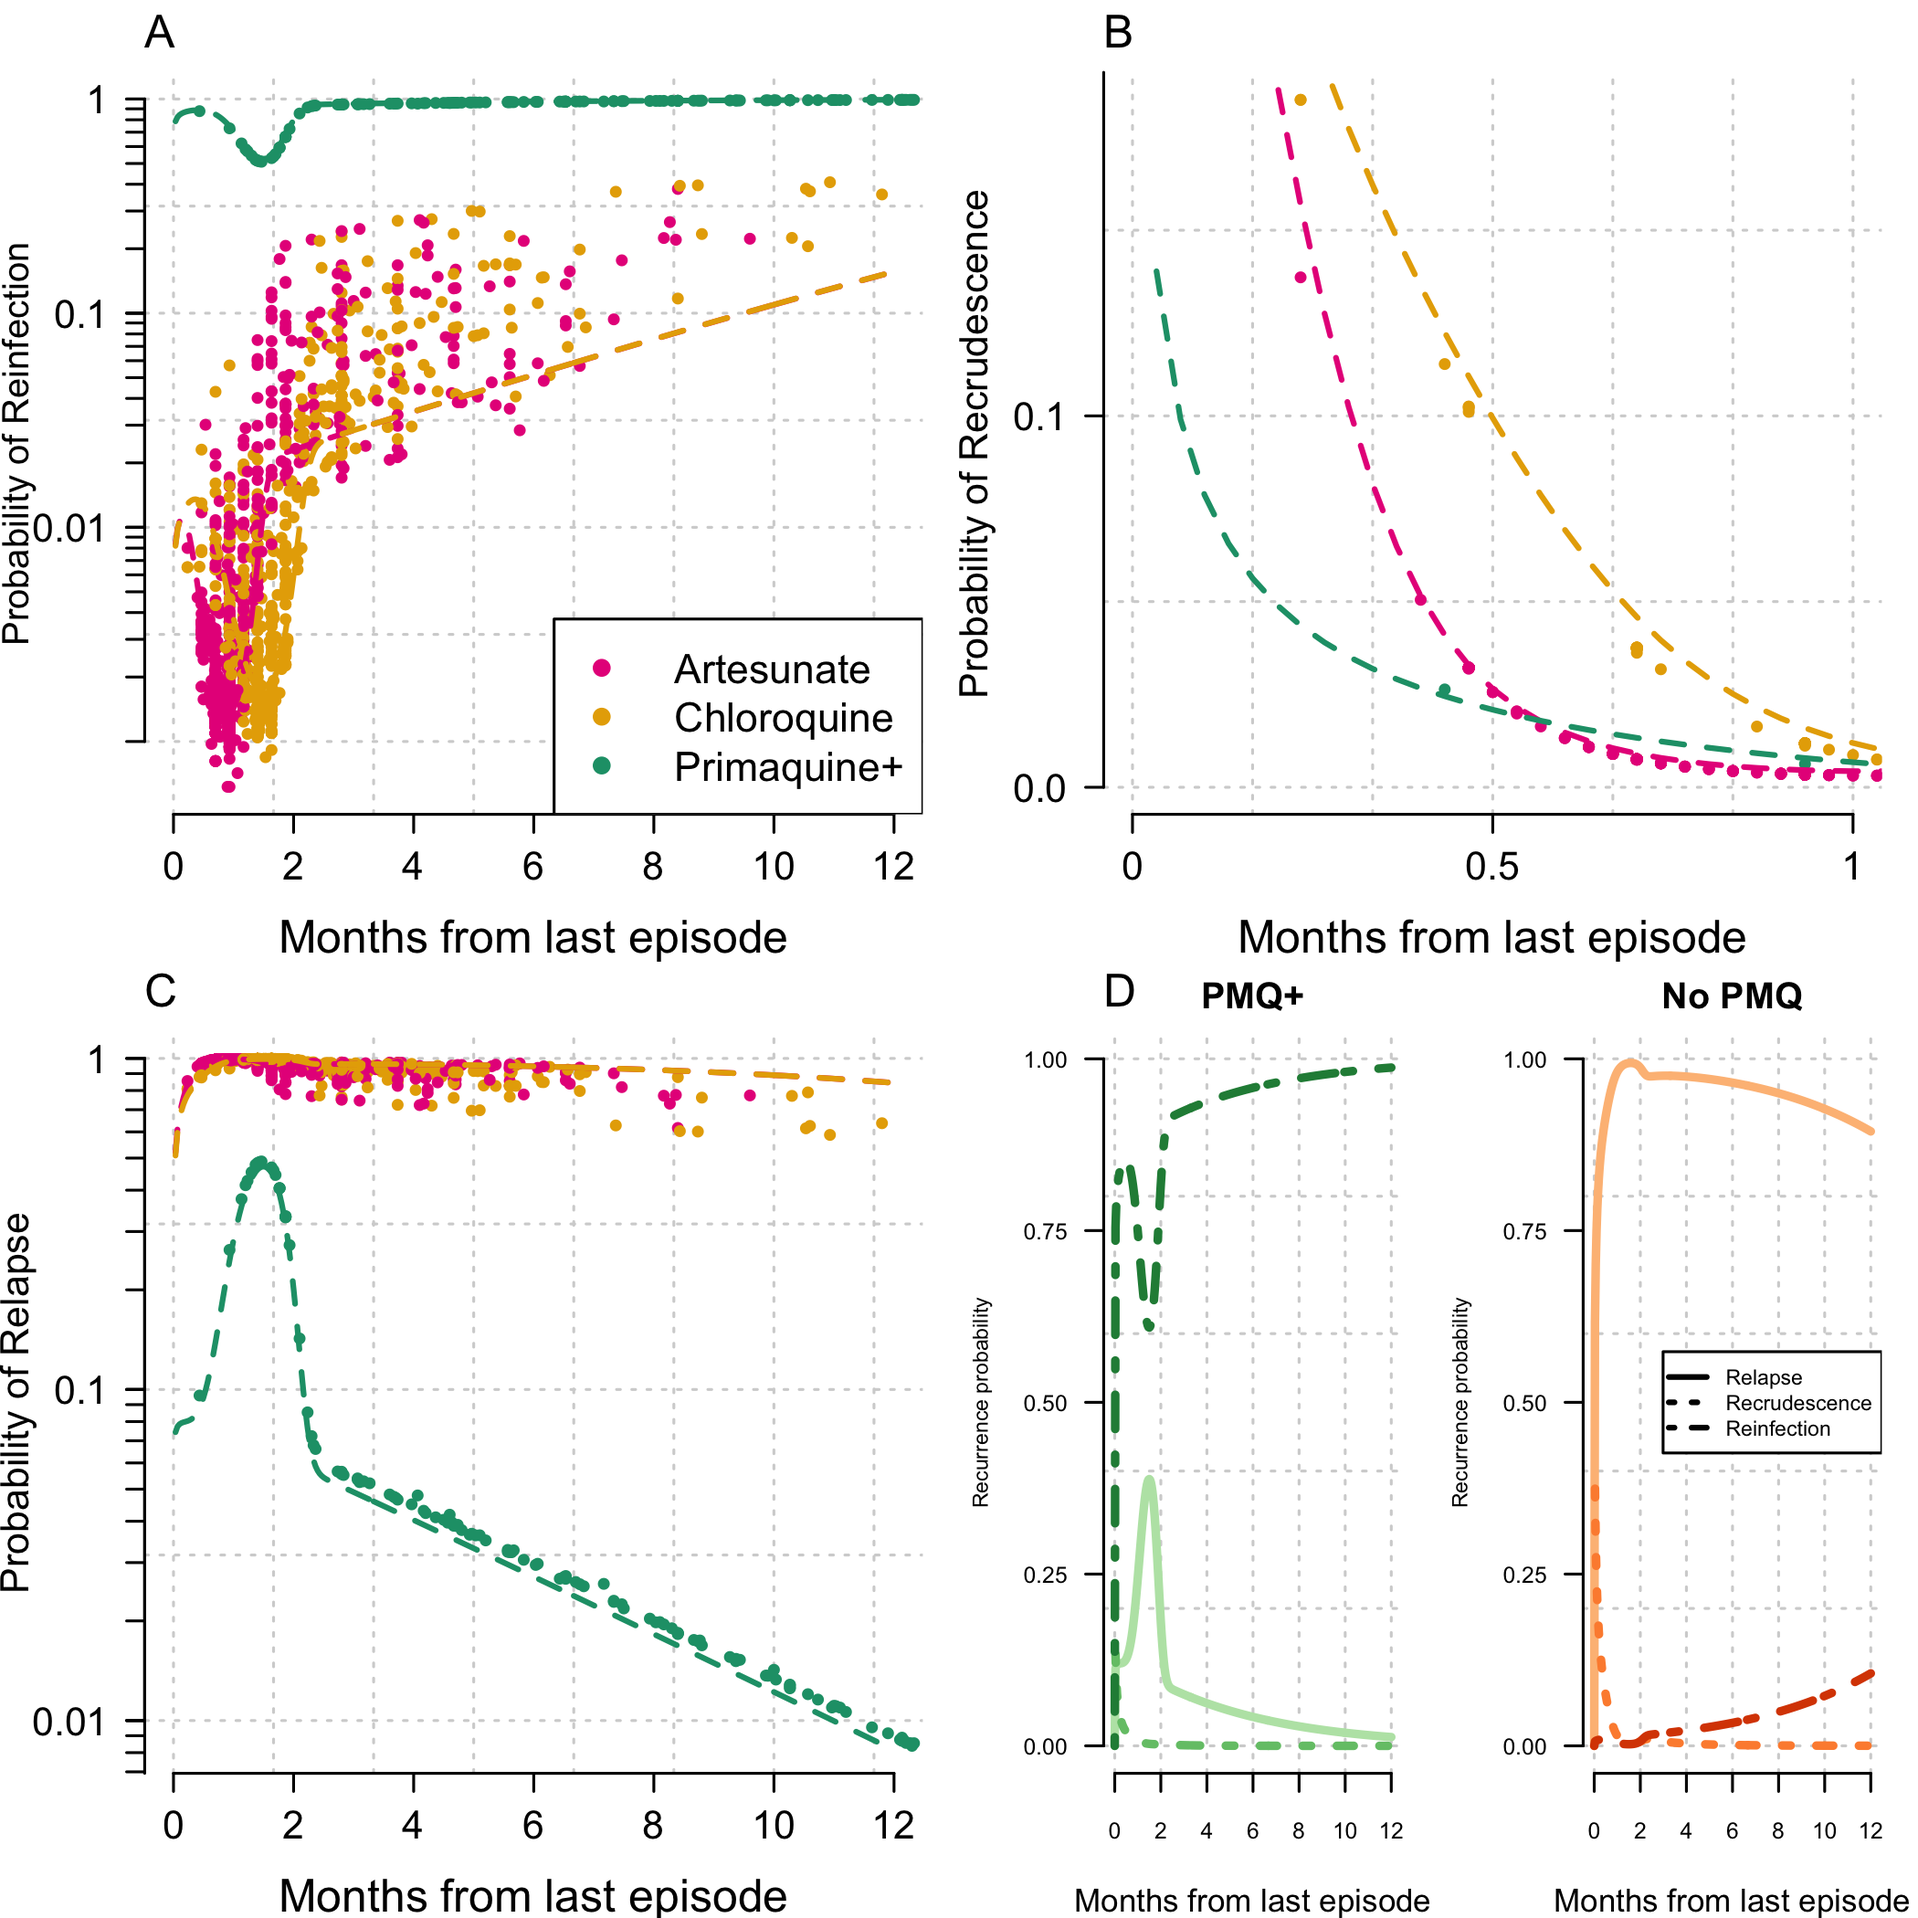
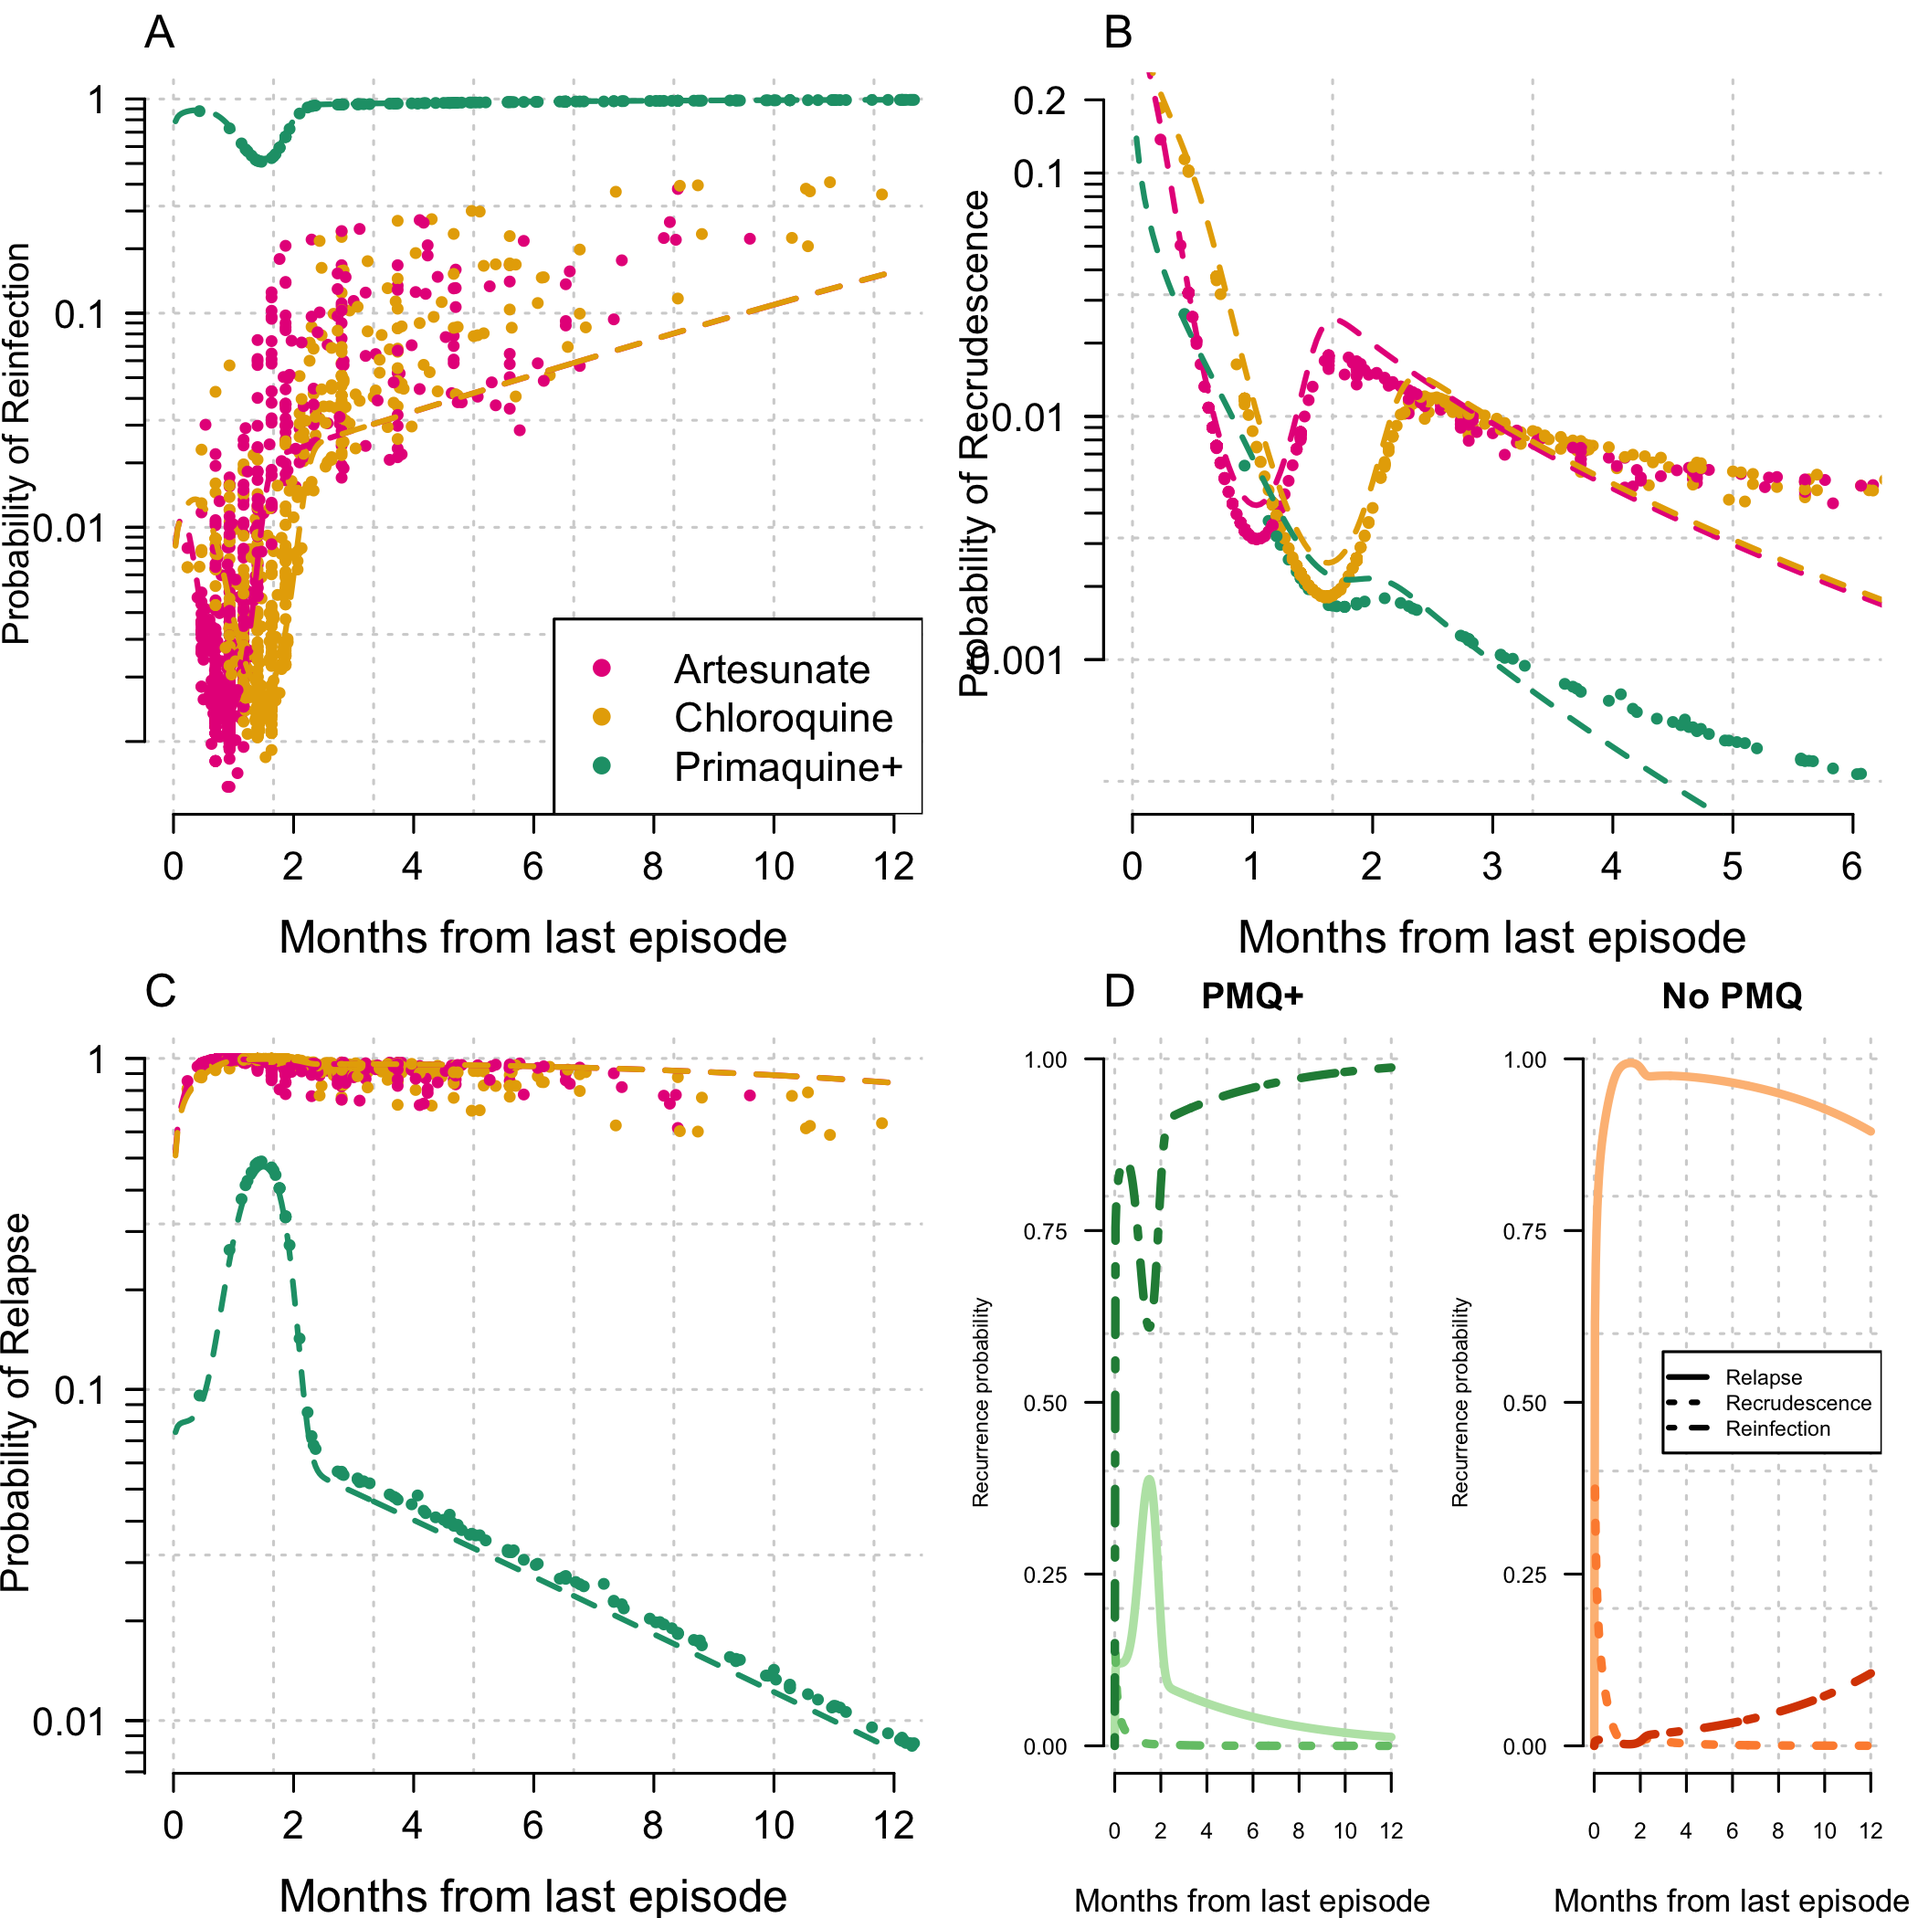
update Fig 1 (Timing model)

diff --git a/Timing_Model/TimingModelStan.md b/Timing_Model/TimingModelStan.md
@@ -573,7 +573,7 @@ legend('bottomright',legend = c('Artesunate','Chloroquine','Chloroquine+\nPrimaq
 ```r
 #****************************** Recrudescence ****************************
 mean_labels_ReCrud = apply(labels[,ind_plotting,4,drop=T], 2, mean)
-plot(Combined_Time_Data$Time_to_event[ind_plotting], mean_labels_ReCrud,
+plot(Combined_Time_Data$Time_to_event[ind_plotting], log10(mean_labels_ReCrud),
      col = drug_cols3[Combined_Time_Data$numeric_drug[ind_plotting]+1], xaxt='n',
      pch = as.numeric(Combined_Time_Data$Censored[ind_plotting])+16,
      ylab='ReCrudescence',
@@ -1342,20 +1342,23 @@ lines(Ts, log10(prob_labels_raw_CQPMQ[1,]), col=drug_cols3[3], lwd=2, lty=2)
 
 #****************************** Recrudescence ****************************
 mean_labels_ReCrud = apply(labels[,ind_plotting,4,drop=T], 2, mean)
-plot(Combined_Time_Data$Time_to_event[ind_plotting], (mean_labels_ReCrud),
+plot(Combined_Time_Data$Time_to_event[ind_plotting], log10(mean_labels_ReCrud),
      col = drug_cols3[Combined_Time_Data$numeric_drug[ind_plotting]+1], xaxt='n',
      pch = 20,
      cex=1,panel.first = grid(),
      ylab='Probability of Recrudescence',yaxt='n',
-     xlab='', xlim=c(0,30))
+     xlab='', xlim=c(0,6*30), 
+     ylim = log10(c(0.0003, 0.2)))
 mtext(text='B', side = 3, adj = 0, line=0.5)
 mtext(text = 'Months from last episode',side = 1,line=3,cex=1)
-axis(1, at = c(0,15,30), labels = c(0,0.5,1))
-axis(2, at = c(0,.1,.2))
+axis(1, at = (0:6)*30, labels = 0:6)
+axis(2, at = log10(c(0.001,0.01,.1, .2)), labels = c(0.001,0.01,.1, .2))
+axis(2, at = log10(seq(.01,.1,by=.01)), labels = NA)
+axis(2, at = log10(seq(.001,.01,by=.001)), labels = NA)
 
-lines(Ts, (prob_labels_raw_AS[4,]), col=drug_cols3[1], lwd=2, lty=2)
-lines(Ts, (prob_labels_raw_CQ[4,]), col=drug_cols3[2], lwd=2, lty=2)
-lines(Ts, (prob_labels_raw_CQPMQ[4,]), col=drug_cols3[3], lwd=2, lty=2)
+lines(Ts, log10(prob_labels_raw_AS[4,]), col=drug_cols3[1], lwd=2, lty=2)
+lines(Ts, log10(prob_labels_raw_CQ[4,]), col=drug_cols3[2], lwd=2, lty=2)
+lines(Ts, log10(prob_labels_raw_CQPMQ[4,]), col=drug_cols3[3], lwd=2, lty=2)
 
 #****************************** Relapse **********************************
 mean_labels_ReLap1= apply(labels[,ind_plotting,2,drop=T], 2, mean)
